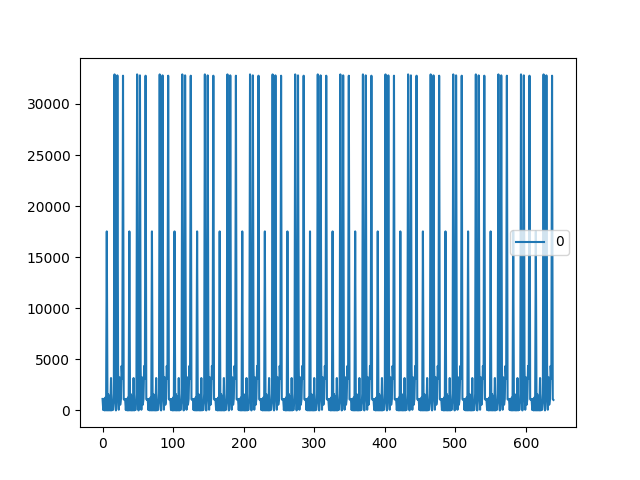
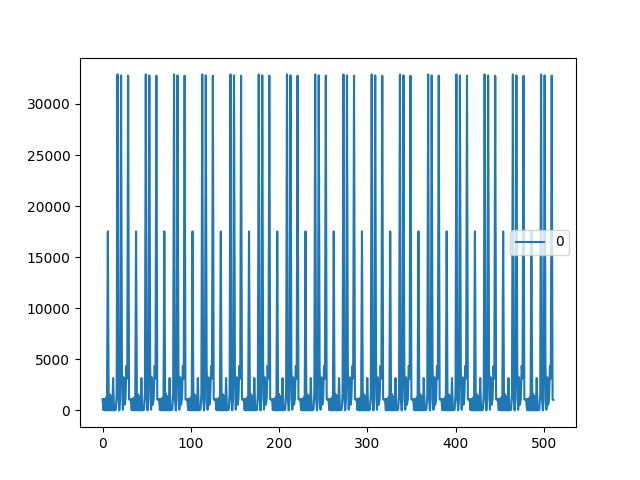
VPED 1.75V

diff --git a/GUI/getPackets.py b/GUI/getPackets.py
@@ -11,7 +11,7 @@ def getPackets(nofPackets, pedestalsON):
     portnmbr ="8"
     curr_time = datetime.now().strftime("%Y-%m-%d_%H:%M:%S")
     capture_file_name = "/home/salvador/github/watchman-readout/GUI/traffic_" + curr_time + ".pcap"
-    num_sec_to_sleep = 40
+    num_sec_to_sleep = 640
     print(func_name + "about to create capture with name:" + capture_file_name)
     p = subprocess.Popen(["tcpdump",
                           "-ni", interface_name,
@@ -41,7 +41,7 @@ capture_file_name =getPackets(nofPackets, pedestalsON)
 # When the transmission finish, process the packets
 
 dfTarget0, dfTarget1=process_packet_pulseSweep(capture_file_name,totalWindows,nofChannels)
-dfTarget0 = dfTarget0-200.
+dfTarget0 = dfTarget0-140.
 ax0=dfTarget0.plot()
 #ax0.set_ylim(-10,10)
 fig0 = ax0.get_figure()

diff --git a/GUI/PulseSweep.py b/GUI/PulseSweep.py
@@ -16,19 +16,20 @@ from pulseGen import pulseGen
 import pandas as pd
 
 pg = pulseGen()
-nmbrWindows = 1
+nmbrWindows =3
 firstWindow= 0
 totalWindows = int(sys.argv[1])
 repetitions=int(sys.argv[2])
 pedestalsON=int(sys.argv[3])
-channel = 5
+channel=int(sys.argv[4])
+
 width = 10e-9
 ampl = 1 
 isel = 2300
 nofTARGETs=2
 pg.isel(isel)
 wave_gen().Output1(out=False)
-nmbrPedestals=10
+nmbrPedestals=40
 
 # pg.pulseInit(width)
 
@@ -36,7 +37,7 @@ pg.channel(channel)
 # pg.impedanceLoadHz(50)
 if (pedestalsON==1):
     pg.pedestals(nmbrPedestals)
-    time.sleep(30)
+    time.sleep(500)
 pg.windows(nmbrWindows, firstWindow, totalWindows)
 wave_gen().Output1(out=True)
 # time.sleep(1)

diff --git a/FMC_TargetC_Prototype/sdk/watchman_final/src/data_analysis.h b/FMC_TargetC_Prototype/sdk/watchman_final/src/data_analysis.h
@@ -36,7 +36,7 @@
 /** @brief Vped value, but in digital (2.5V <=> 2047 -> 1.75V <=> 1434 or 1.25V <=> 1024)*/
 #define VPED_DIGITAL	1434
 /** @brief Vped voltage to set up in DAC (in float)*/
-#define VPED_ANALOG		1.75//1.6 //1.75
+#define VPED_ANALOG		1.5//1.6 //1.75
 /** @brief Threshold voltage to set up in DAC for the comparator of the trigger system (in float)*/
 #define THRESHOLD_CMP_0	1.78  //1.78//1.78 //1.25/** @brief Treshold used to select the gain stage in function correct_data to send (digital value)*/
 
